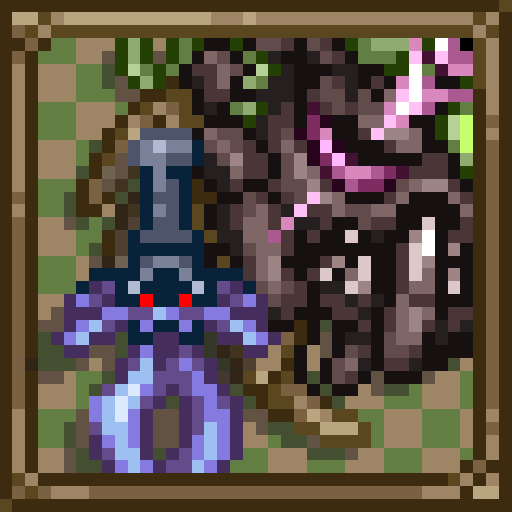
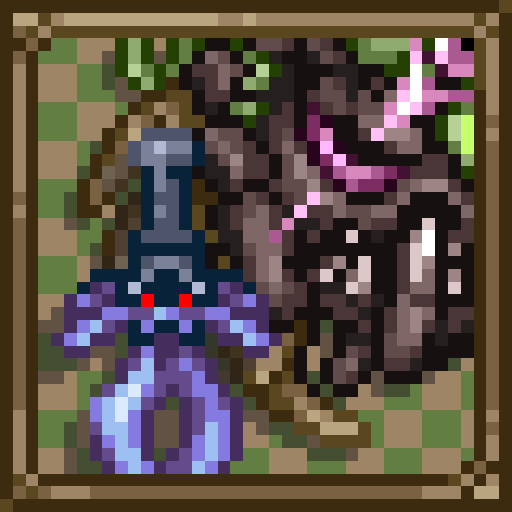
Improvements for next update (#25)
* Added NPC.rarity values to NPCs

Added NPC.rarity values to old console exclusive NPCs, so they can now be visible on hud when using accesories that detect rare NPCs (like Lifeform Analyzer)

* Added а config option regarding gender restricted items in the Clothier's shop

Added а config option regarding gender restricted items in the Clothier's shop (off by default)

* Fixed on-body sprite of Valentine Ring

Fixed on-body sprite of Valentine Ring to be more in-pair with vanilla

* Added visual sprite for Ostara's Gift

* quick fix

* changelog updateeeeee

* Pixel-perfected mod icon

diff --git a/Common/GlobalNPC/VanillaNPCShop.cs b/Common/GlobalNPC/VanillaNPCShop.cs
@@ -8,8 +8,8 @@ namespace Consolaria.Common {
         public static Condition thanksgivingCondition = new Condition("Mods.Consolaria.Conditions.SellingDuringThanksgiving", () => (SeasonalEvents.configEnabled && SeasonalEvents.IsThanksgiving()) || !SeasonalEvents.configEnabled);
         public static Condition oktoberfestCondition = new Condition("Mods.Consolaria.Conditions.SellingDuringOktoberfest", () => (SeasonalEvents.configEnabled && SeasonalEvents.IsOktoberfest()) || (!SeasonalEvents.configEnabled && Main.LocalPlayer.HeldItem.type == ItemID.Ale));
         public static Condition valentineDayCondition = new Condition("Mods.Consolaria.Conditions.SellingDuringValentineDay", () => (SeasonalEvents.configEnabled && SeasonalEvents.IsValentineDay()) || (!SeasonalEvents.configEnabled && Main.LocalPlayer.HasBuff(BuffID.Lovestruck)));
-        public static Condition isMaleCondition = new Condition("Mods.Consolaria.Conditions.SellingIfMale", () => Main.LocalPlayer.Male);
-        public static Condition womanMoment = new Condition("Mods.Consolaria.Conditions.SellingWhenWoman", () => !Main.LocalPlayer.Male);
+        public static Condition isMaleCondition = new Condition("Mods.Consolaria.Conditions.SellingIfMale", () => Main.LocalPlayer.Male & Main.bloodMoon);
+        public static Condition womanMoment = new Condition("Mods.Consolaria.Conditions.SellingWhenWoman", () => !Main.LocalPlayer.Male & Main.bloodMoon);
         public static Condition wishboneCooldown = new Condition("Mods.Consolaria.Conditions.SellingWhenWoman", () => !WishbonePlayer.purchasedWishbone);
 
         public override void ModifyShop (NPCShop shop) {
@@ -35,12 +35,24 @@ namespace Consolaria.Common {
                 shop.Add(ModContent.ItemType<Content.Items.Vanity.TorosHead>(), Condition.BloodMoon);
                 shop.Add(ModContent.ItemType<Content.Items.Vanity.TorosBody>(), Condition.BloodMoon);
                 shop.Add(ModContent.ItemType<Content.Items.Vanity.TorosLegs>(), Condition.BloodMoon);
+
+                if (ModContent.GetInstance<ConsolariaConfig>().genderRestrictShopEnabled) {
                 shop.Add(ModContent.ItemType<Content.Items.Vanity.GeorgesHat>(), isMaleCondition);
                 shop.Add(ModContent.ItemType<Content.Items.Vanity.GeorgesTuxedoShirt>(), isMaleCondition);
                 shop.Add(ModContent.ItemType<Content.Items.Vanity.GeorgesTuxedoPants>(), isMaleCondition);
                 shop.Add(ModContent.ItemType<Content.Items.Vanity.FabulousRibbon>(), womanMoment);
                 shop.Add(ModContent.ItemType<Content.Items.Vanity.FabulousDress>(), womanMoment);
                 shop.Add(ModContent.ItemType<Content.Items.Vanity.FabulousSlippers>(), womanMoment);
+                }
+                else {
+                shop.Add(ModContent.ItemType<Content.Items.Vanity.GeorgesHat>(), Condition.BloodMoon);
+                shop.Add(ModContent.ItemType<Content.Items.Vanity.GeorgesTuxedoShirt>(), Condition.BloodMoon);
+                shop.Add(ModContent.ItemType<Content.Items.Vanity.GeorgesTuxedoPants>(), Condition.BloodMoon);
+                shop.Add(ModContent.ItemType<Content.Items.Vanity.FabulousRibbon>(), Condition.BloodMoon);
+                shop.Add(ModContent.ItemType<Content.Items.Vanity.FabulousDress>(), Condition.BloodMoon);
+                shop.Add(ModContent.ItemType<Content.Items.Vanity.FabulousSlippers>(), Condition.BloodMoon);
+                }
+
                 shop.Add(ModContent.ItemType<Content.Items.Vanity.AlpineHat>(), oktoberfestCondition);
                 shop.Add(ModContent.ItemType<Content.Items.Vanity.Lederweste>(), oktoberfestCondition);
                 shop.Add(ModContent.ItemType<Content.Items.Vanity.Lederhosen>(), oktoberfestCondition);

diff --git a/Content/NPCs/AlbinoCharger.cs b/Content/NPCs/AlbinoCharger.cs
@@ -28,11 +28,12 @@ namespace Consolaria.Content.NPCs {
             int width = 28; int height = 28;
             NPC.Size = new Vector2(width, height);
 
-            NPC.damage = 30;
+            NPC.damage = 25;
             NPC.lifeMax = 80;
 
             NPC.defense = 10;
             NPC.knockBackResist = 0.5f;
+            NPC.rarity = 1;
 
             NPC.HitSound = SoundID.NPCHit31;
             NPC.DeathSound = SoundID.NPCDeath34;

diff --git a/Content/NPCs/AlbinoAntlion.cs b/Content/NPCs/AlbinoAntlion.cs
@@ -33,12 +33,13 @@ namespace Consolaria.Content.NPCs
 			NPC.Size = new Vector2(width, height);
 
 			NPC.damage = 10;
-			NPC.defense = 10;
+			NPC.defense = 6;
 			NPC.lifeMax = 45;
 
 			NPC.value = Item.buyPrice(copper: 65);
 			NPC.knockBackResist = 0f;
 			NPC.behindTiles = true;
+			NPC.rarity = 1;
 
 			NPC.aiStyle = 19;
 			AnimationType = NPCID.Antlion;

diff --git a/Content/Items/Accessories/OstarasGift.cs b/Content/Items/Accessories/OstarasGift.cs
@@ -5,6 +5,7 @@ using Consolaria.Content.NPCs.Bosses.Lepus;
 using Microsoft.Xna.Framework;
 
 namespace Consolaria.Content.Items.Accessories {
+    [AutoloadEquip(EquipType.Waist)]
     public class OstarasGift : ModItem {
         public override void SetStaticDefaults () {
 

diff --git a/Common/ConsolariaConfig.cs b/Common/ConsolariaConfig.cs
@@ -28,6 +28,10 @@ namespace Consolaria.Common {
 
 		[DefaultValue(false)]
         [ReloadRequired]
+        public bool genderRestrictShopEnabled;
+
+		[DefaultValue(false)]
+        [ReloadRequired]
         public bool oktoberLocksEnabled;
 
 		[DefaultValue(false)]

diff --git a/Content/NPCs/GiantAlbinoCharger.cs b/Content/NPCs/GiantAlbinoCharger.cs
@@ -33,6 +33,7 @@ namespace Consolaria.Content.NPCs {
 
             NPC.defense = 16;
             NPC.knockBackResist = 0.6f;
+            NPC.rarity = 1;
 
             NPC.HitSound = SoundID.NPCHit31;
             NPC.DeathSound = SoundID.NPCDeath34;

diff --git a/Content/NPCs/Orca.cs b/Content/NPCs/Orca.cs
@@ -36,6 +36,7 @@ namespace Consolaria.Content.NPCs {
 
             NPC.defense = 10;
             NPC.knockBackResist = 0.1f;
+            NPC.rarity = 1;
 
             NPC.HitSound = SoundID.NPCHit1;
             NPC.DeathSound = SoundID.NPCDeath1;

diff --git a/Content/NPCs/FleshSlime.cs b/Content/NPCs/FleshSlime.cs
@@ -31,6 +31,7 @@ namespace Consolaria.Content.NPCs {
 
             NPC.damage = 20;
             NPC.knockBackResist = 0f;
+            NPC.rarity = 1;
 
             NPC.value = Item.buyPrice(silver: 5);
             NPC.alpha = 80;

diff --git a/Content/NPCs/ShadowSlime.cs b/Content/NPCs/ShadowSlime.cs
@@ -31,6 +31,7 @@ namespace Consolaria.Content.NPCs {
 
             NPC.damage = 20;
             NPC.knockBackResist = 0f;
+            NPC.rarity = 1;
 
             NPC.value = Item.buyPrice(silver: 5);
             NPC.alpha = 80;

diff --git a/Content/NPCs/DragonHornet.cs b/Content/NPCs/DragonHornet.cs
@@ -41,6 +41,7 @@ namespace Consolaria.Content.NPCs {
 			NPC.value = Item.buyPrice(silver: 1);
 			NPC.knockBackResist = 0.4f;
 			NPC.noGravity = true;
+			NPC.rarity = 1;
 
 			NPC.aiStyle = 14;
 			AnimationType = NPCID.Hornet;

diff --git a/Content/NPCs/SpectralMummy.cs b/Content/NPCs/SpectralMummy.cs
@@ -35,6 +35,7 @@ namespace Consolaria.Content.NPCs {
 
             NPC.lifeMax = 250;
             NPC.knockBackResist = 0.1f;
+            NPC.rarity = 1;
 
             NPC.value = Item.buyPrice(silver: 10);
 

diff --git a/Content/NPCs/SpectralElemental.cs b/Content/NPCs/SpectralElemental.cs
@@ -36,6 +36,7 @@ namespace Consolaria.Content.NPCs {
 
             NPC.defense = 30;
             NPC.knockBackResist = 0.6f;
+            NPC.rarity = 1;
 
             NPC.value = Item.buyPrice(silver: 10);
 
